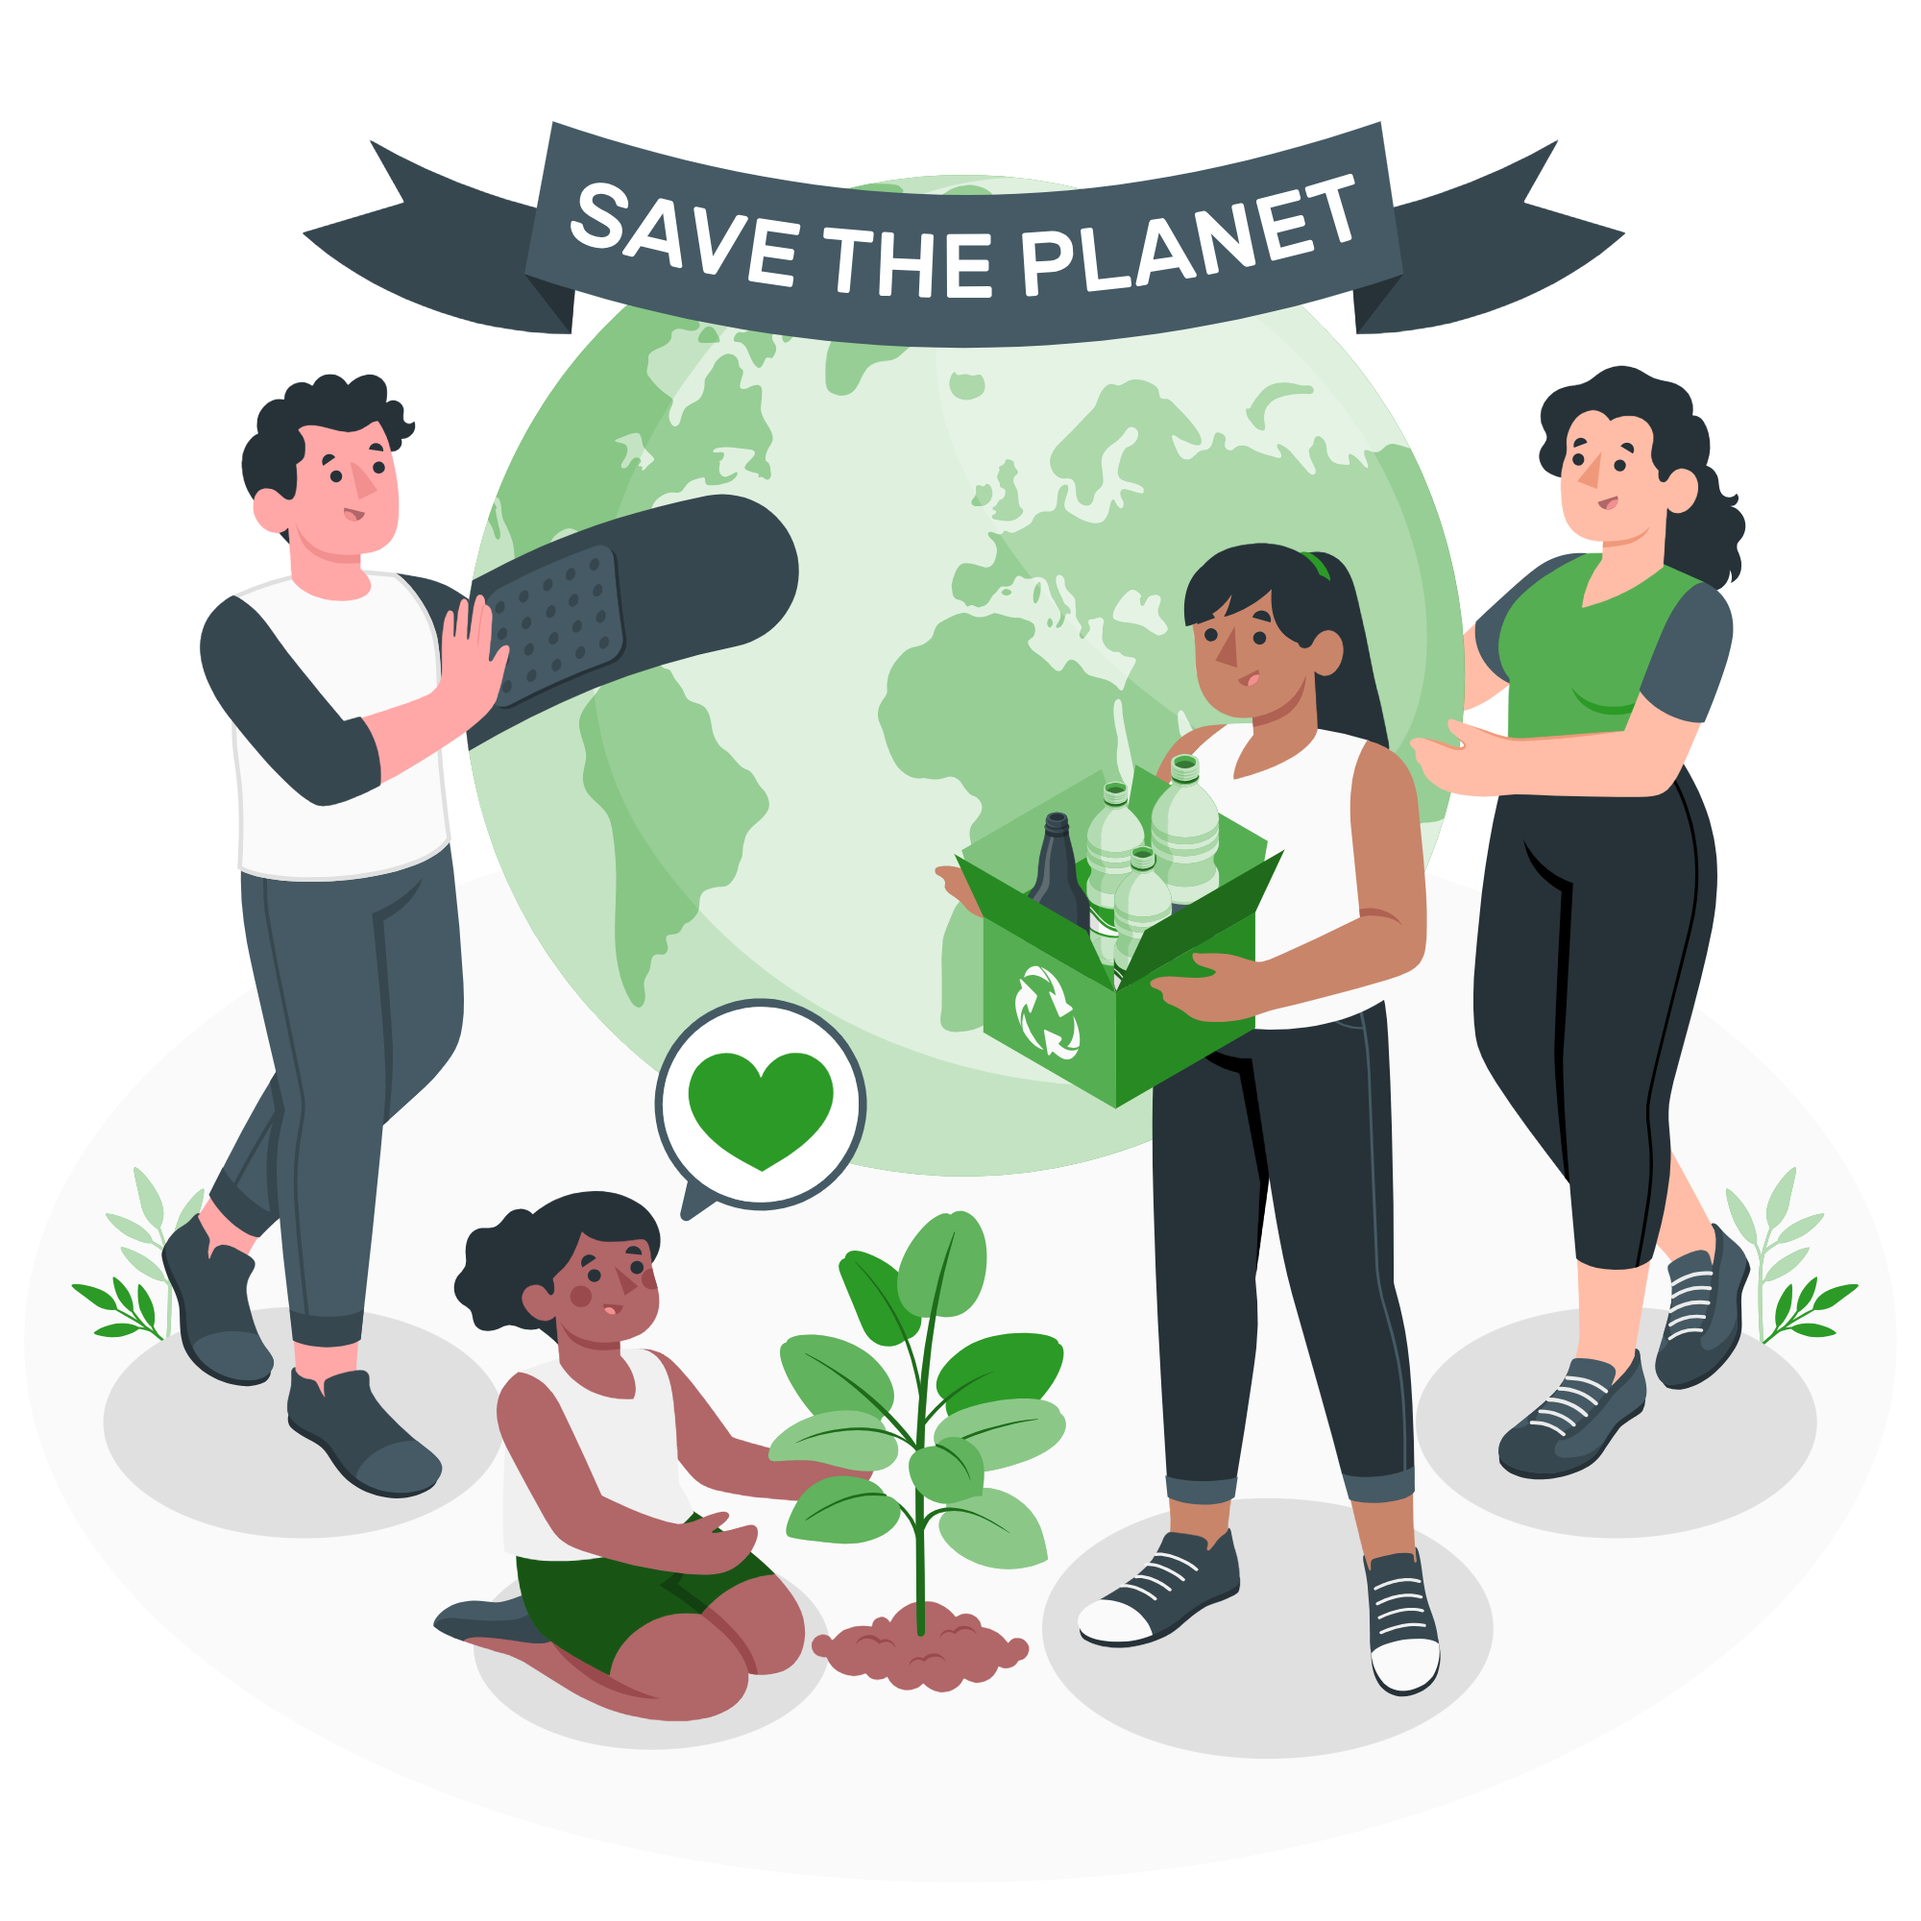
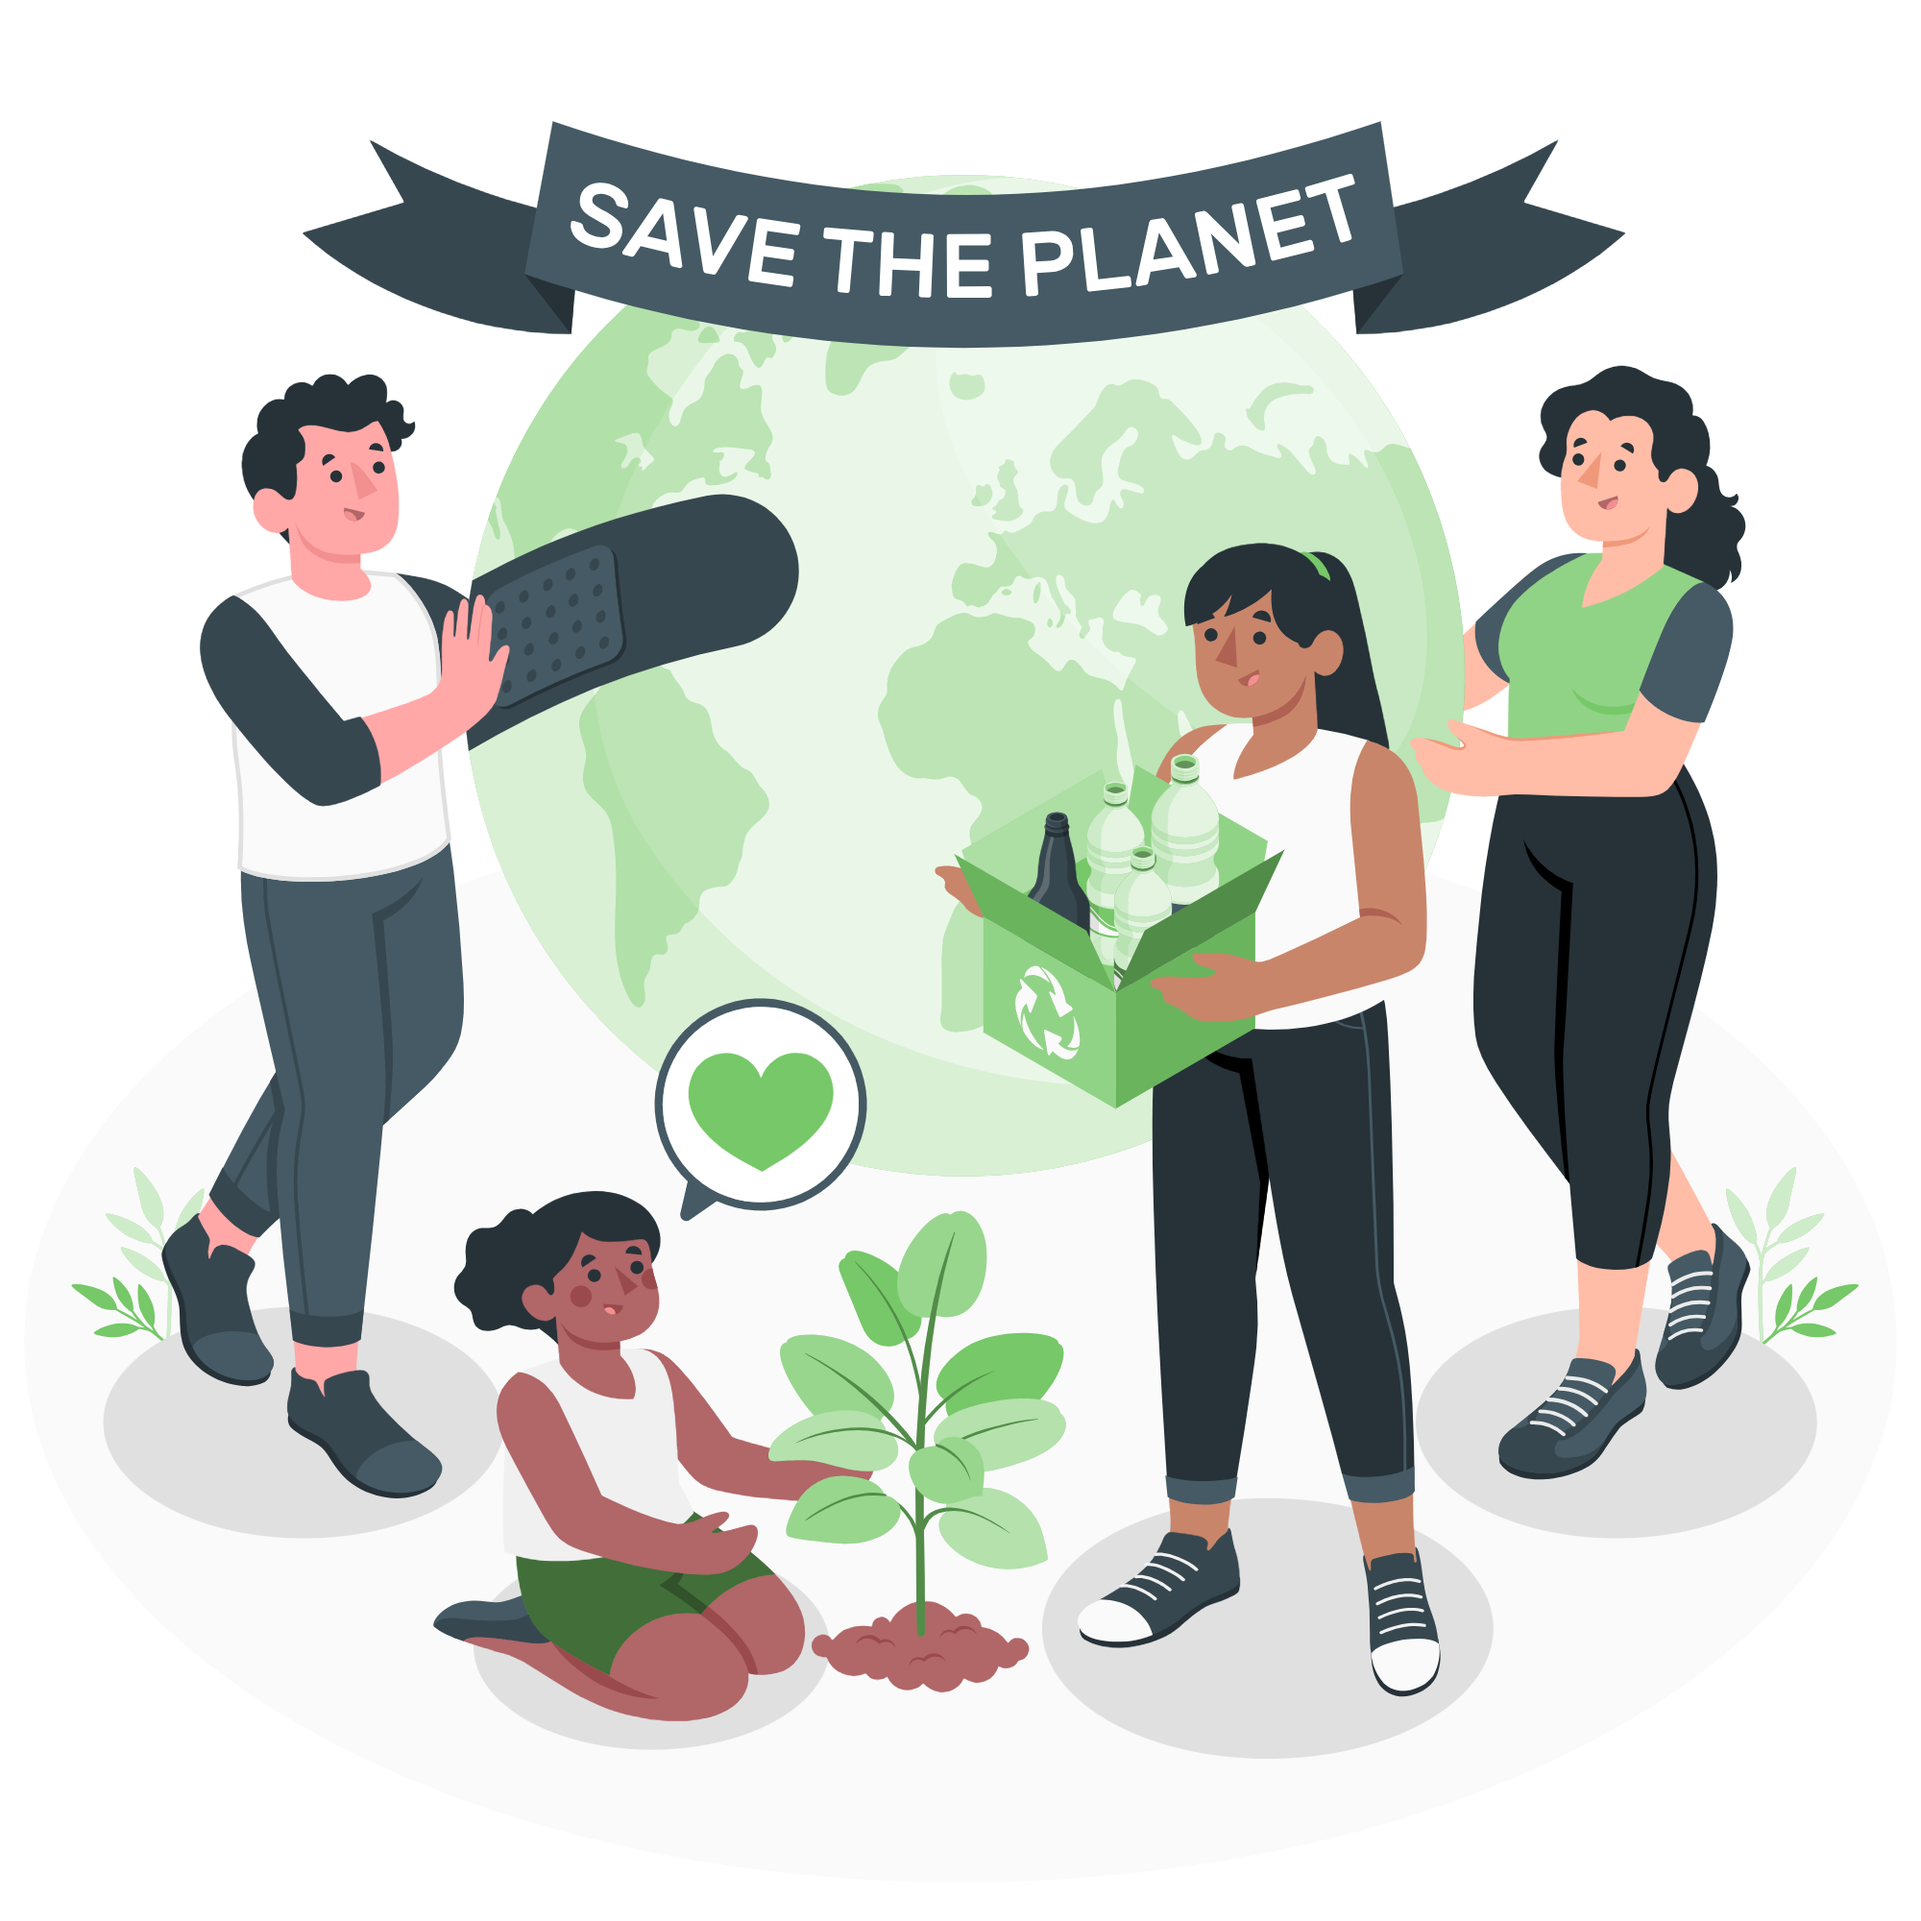
perbaikan sedikit di login, register, dan tampilan search bar

diff --git a/resources/views/browse.blade.php b/resources/views/browse.blade.php
@@ -47,10 +47,10 @@
                         </p>
                         <!-- Search Bar -->
                         <div class="max-w-xl mx-auto mt-8 relative">
-                            <form method="GET" action="{{ route('browse') }}" class="flex items-center bg-white rounded-full shadow-lg overflow-hidden border-2 border-green-100 hover:border-green-200 transition-all duration-300">
-                                <input type="text" name="search" value="{{ request('search') }}" placeholder="Cari toko atau produk..." class="w-full px-6 py-3 text-gray-700 focus:outline-none text-lg" />
+                            <form method="GET" action="{{ route('browse') }}" class="relative flex items-center max-w-lg mx-auto">                                 
+                                <input type="text" name="search" value="{{ request('search') }}" placeholder="Cari toko atau produk..." class="w-full pl-4 pr-12 py-3 rounded-full border border-gray-300 focus:outline-none focus:ring-2 focus:ring-green-500 focus:border-transparent shadow-sm"/>
                                 <input type="hidden" name="sort" value="{{ request('sort', 'terbaru') }}" />
-                                <button type="submit" class="bg-green-600 hover:bg-green-700 text-white px-6 py-3 transition-all duration-300 flex items-center">
+                                <button type="submit" class="absolute right-2 top-1/2 transform -translate-y-1/2 bg-green-500 hover:bg-green-600 text-white p-2 rounded-full transition-colors">
                                     <svg xmlns="http://www.w3.org/2000/svg" class="h-5 w-5" fill="none" viewBox="0 0 24 24" stroke="currentColor">
                                         <path stroke-linecap="round" stroke-linejoin="round" stroke-width="2" d="M21 21l-6-6m2-5a7 7 0 11-14 0 7 7 0 0114 0z" />
                                     </svg>

diff --git a/resources/views/events/index.blade.php b/resources/views/events/index.blade.php
@@ -44,10 +44,10 @@
                         
                         <!-- Search Bar -->
                         <div class="max-w-xl mx-auto mt-8 relative">
-                            <form method="GET" action="{{ route('events.index') }}" class="flex items-center bg-white rounded-full shadow-lg overflow-hidden border-2 border-green-100 hover:border-green-200 transition-all duration-300">
-                                <input type="text" name="search" value="{{ request('search') }}" placeholder="Cari event..." class="w-full px-6 py-3 text-gray-700 focus:outline-none text-lg" />
+                            <form method="GET" action="{{ route('events.index') }}" class="relative flex items-center max-w-lg mx-auto">
+                                <input type="text" name="search" value="{{ request('search') }}" placeholder="Cari event..." class="w-full pl-4 pr-12 py-3 rounded-full border border-gray-300 focus:outline-none focus:ring-2 focus:ring-green-500 focus:border-transparent shadow-sm"/>
                                 <input type="hidden" name="sort" value="{{ request('sort', 'terbaru') }}" />
-                                <button type="submit" class="bg-green-600 hover:bg-green-700 text-white px-6 py-3 transition-all duration-300 flex items-center">
+                                <button type="submit" class="absolute right-2 top-1/2 transform -translate-y-1/2 bg-green-500 hover:bg-green-600 text-white p-2 rounded-full transition-colors">
                                     <svg xmlns="http://www.w3.org/2000/svg" class="h-5 w-5" fill="none" viewBox="0 0 24 24" stroke="currentColor">
                                         <path stroke-linecap="round" stroke-linejoin="round" stroke-width="2" d="M21 21l-6-6m2-5a7 7 0 11-14 0 7 7 0 0114 0z" />
                                     </svg>

diff --git a/resources/views/auth/login.blade.php b/resources/views/auth/login.blade.php
@@ -18,7 +18,7 @@
             <!-- Left Box -->
             <div class="hidden md:flex md:w-1/2 h-full items-center justify-center relative">
                 <div class="absolute inset-0 bg-white/0" style="opacity:0.04;"></div>
-                <img src="{{ asset('images/1.png') }}" alt="Ilustrasi"
+                <img src="{{ asset('images/2.png') }}" alt="Ilustrasi"
                      class="w-auto h-auto object-contain z-20 pointer-events-none">
             </div>
             <!-- Right Box: Login Form -->
